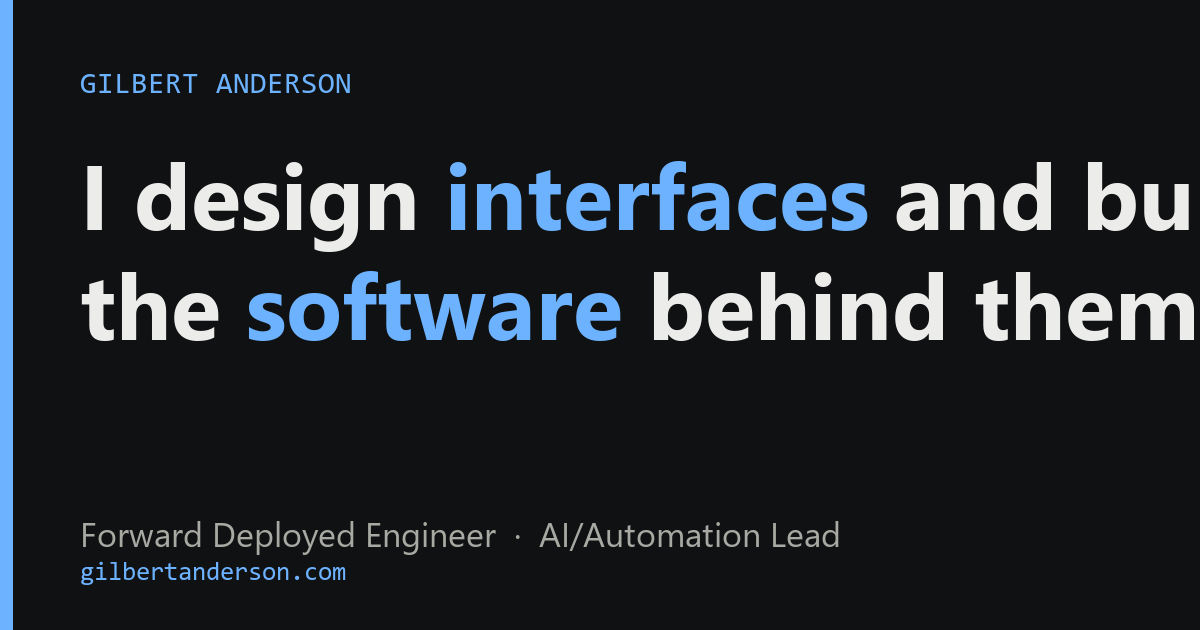
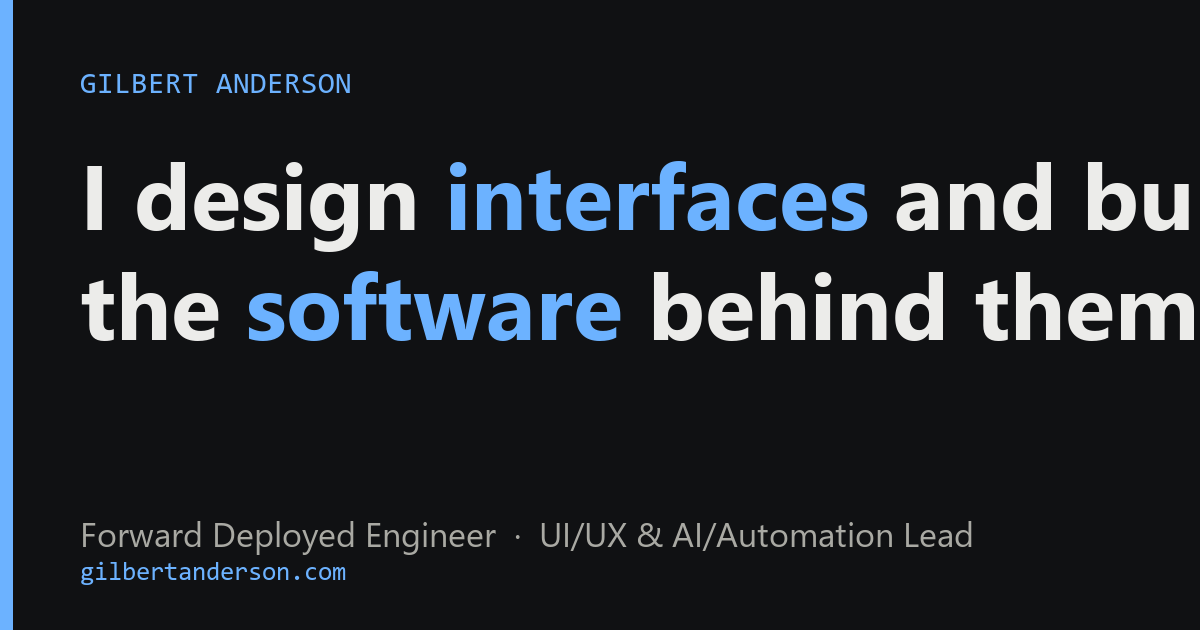
Subtitle: UI/UX & AI/Automation Lead (site, share image, resume) (#56)

Changed region(s): [[0.4317, 0.8143, 0.8325, 0.8746]]

diff --git a/frontend/index.html b/frontend/index.html
@@ -3,12 +3,12 @@
   <head>
     <meta charset="utf-8" />
     <meta name="viewport" content="width=device-width, initial-scale=1" />
-    <title>Gilbert Anderson — Forward Deployed Engineer · AI/Automation Lead</title>
-    <meta name="description" content="Portfolio of Gilbert Anderson, forward deployed engineer, AI/automation lead." />
+    <title>Gilbert Anderson — Forward Deployed Engineer · UI/UX &amp; AI/Automation Lead</title>
+    <meta name="description" content="Portfolio of Gilbert Anderson, forward deployed engineer, UI/UX and AI/automation lead." />
     <meta name="color-scheme" content="light dark" />
     <meta property="og:type" content="website" />
     <meta property="og:site_name" content="Gilbert Anderson" />
-    <meta property="og:title" content="Gilbert Anderson — Forward Deployed Engineer · AI/Automation Lead" />
+    <meta property="og:title" content="Gilbert Anderson — Forward Deployed Engineer · UI/UX &amp; AI/Automation Lead" />
     <meta property="og:description" content="I design interfaces and build the software behind them. Portfolio of Gilbert Anderson." />
     <meta property="og:url" content="https://gilbertanderson.com/" />
     <meta property="og:image" content="https://gilbertanderson.com/og.png" />
